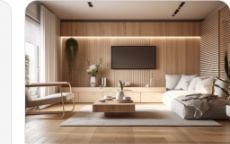
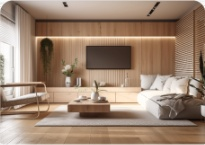
fix(showcase): align Discover Properties section cards and crop with reference design

diff --git a/components/home/HomeSections.jsx b/components/home/HomeSections.jsx
@@ -87,7 +87,7 @@ export default function HomeSections() {
           {/* 3 Showcase Items: Wide Image | Middle Card | Right Card */}
           <div className="grid grid-cols-1 lg:grid-cols-12 gap-5 items-start">
             {/* Left Wide Interior Image */}
-            <div className="lg:col-span-6 h-[320px] rounded-[24px] overflow-hidden bg-slate-100 shadow-xs relative">
+            <div className="lg:col-span-6 h-[336px] rounded-[24px] overflow-hidden bg-slate-100 shadow-xs relative">
               <img
                 src="/images/discover-interior-left.jpg"
                 alt="Modern Living Room Interior"
@@ -99,26 +99,26 @@ export default function HomeSections() {
             <div className="lg:col-span-6 flex flex-col justify-between">
               <div className="grid grid-cols-1 sm:grid-cols-2 gap-4 sm:gap-5">
                 {/* Middle Feature Card */}
-                <div className="h-[320px] bg-[#f6f6f7] border border-slate-200/70 rounded-[20px] p-5 sm:p-6 flex flex-col justify-between items-center text-center shadow-2xs">
-                  <div className="my-auto flex flex-col items-center">
-                    <h3 className="text-[17px] font-bold text-slate-900 leading-snug">
+                <div className="h-[280px] bg-[#f5f5f5] border border-slate-200/70 rounded-[20px] p-5 sm:p-6 flex flex-col justify-between items-center text-center shadow-2xs">
+                  <div className="pt-2 flex flex-col items-center">
+                    <h3 className="text-[17px] font-semibold text-slate-900 leading-snug">
                       Discover Properties<br />That Match Your Goals
                     </h3>
-                    <p className="mt-3 text-[12px] leading-relaxed text-slate-500 max-w-[190px]">
+                    <p className="mt-2.5 text-[11.5px] leading-relaxed text-slate-500 max-w-[200px]">
                       Explore curated opportunities across residential, investment, and future growth locations designed for confident decision-making.
                     </p>
                   </div>
 
                   <Link
                     href="/residential"
-                    className="mt-4 rounded-full bg-white text-slate-800 text-xs font-semibold px-6 py-2.5 shadow-xs border border-slate-200/80 hover:bg-slate-50 transition active:scale-95"
+                    className="mb-1 rounded-full bg-white text-slate-900 text-xs font-medium px-5 py-2 shadow-xs border border-slate-200/80 hover:bg-slate-50 transition active:scale-95"
                   >
                     Explore Projects
                   </Link>
                 </div>
 
                 {/* Right Feature Card with Image */}
-                <div className="h-[320px] bg-white border border-slate-200/70 rounded-[20px] overflow-hidden flex flex-col justify-between shadow-2xs">
+                <div className="h-[280px] bg-[#f5f5f5] border border-slate-200/70 rounded-[20px] overflow-hidden flex flex-col justify-between shadow-2xs">
                   <div className="h-[155px] w-full overflow-hidden bg-slate-100 shrink-0">
                     <img
                       src="/images/discover-interior-right.jpg"
@@ -128,13 +128,13 @@ export default function HomeSections() {
                   </div>
 
                   <div className="p-4 flex flex-col items-center justify-between flex-1 text-center">
-                    <h4 className="text-[15px] font-bold text-slate-900 mt-1">
+                    <h4 className="text-[16px] font-semibold text-slate-900">
                       Pricing Start at $256K
                     </h4>
 
                     <Link
                       href="/residential"
-                      className="mt-3 w-full max-w-[170px] rounded-full bg-black text-white text-xs font-semibold py-2.5 px-5 hover:bg-slate-800 transition active:scale-95 shadow-sm text-center"
+                      className="mb-1 rounded-full bg-black text-white text-xs font-medium py-2 px-6 hover:bg-slate-800 transition active:scale-95 shadow-sm text-center"
                     >
                       Explore Properties
                     </Link>
@@ -143,8 +143,9 @@ export default function HomeSections() {
               </div>
 
               {/* Bottom Footnote under Middle & Right cards */}
-              <p className="mt-4 text-[13px] text-slate-600 font-normal leading-relaxed max-w-md">
-                Whether it&apos;s creating a cozy corner for relaxation or transforming a small area into a workspace
+              <p className="mt-4 text-[13px] text-slate-600 font-normal leading-relaxed max-w-[430px]">
+                Whether it&apos;s creating a cozy corner for relaxation or
+                <br className="hidden sm:inline" /> transforming a small area into a workspace
               </p>
             </div>
           </div>
